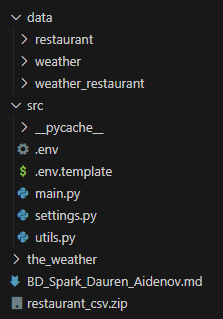
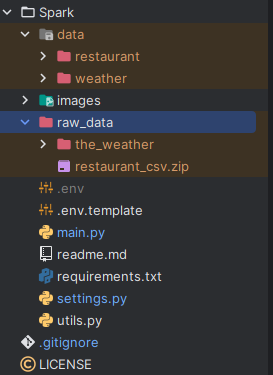
feat: implement tests

diff --git a/Spark/test_pyspark.py b/Spark/test_pyspark.py
@@ -1,0 +1,47 @@
+from pyspark.sql import SparkSession
+from pyspark.sql.types import StructType, StructField, DoubleType, StringType, IntegerType, LongType
+from pyspark.testing.utils import assertSchemaEqual
+
+from settings import SRC_RESTAURANT_PATH, SRC_WEATHER_PATH
+
+spark = (SparkSession.builder
+         .master('local[*]')
+         .appName('Spark HW')
+         .config('spark.driver.memory', '5g')
+         .config('spark.executor.memory', '5g')
+         .config("spark.sql.execution.arrow.pyspark.enabled", True)
+         .config('spark.sql.shuffle.partitions', 4)
+         .getOrCreate())
+
+restaurant_df = spark.read.csv(str(SRC_RESTAURANT_PATH), header=True, inferSchema=True)
+weather_df = spark.read.parquet(str(SRC_WEATHER_PATH), inferSchema=True)
+
+restaurant_schema = restaurant_df.schema
+restaurant_schema_check = StructType([
+    StructField('id', LongType(), True),
+    StructField('franchise_id', IntegerType(), True),
+    StructField('franchise_name', StringType(), True),
+    StructField('restaurant_franchise_id', IntegerType(), True),
+    StructField('country', StringType(), True),
+    StructField('city', StringType(), True),
+    StructField('lat', DoubleType(), True),
+    StructField('lng', DoubleType(), True)
+])
+
+assertSchemaEqual(restaurant_schema, restaurant_schema_check)
+
+weather_schema = weather_df.schema
+weather_schema_check = StructType([
+    StructField('lng', DoubleType(), True),
+    StructField('lat', DoubleType(), True),
+    StructField('avg_tmpr_f', DoubleType(), True),
+    StructField('avg_tmpr_c', DoubleType(), True),
+    StructField('wthr_date', StringType(), True),
+    StructField('year', IntegerType(), True),
+    StructField('month', IntegerType(), True),
+    StructField('day', IntegerType(), True)
+])
+
+assertSchemaEqual(weather_schema, weather_schema_check)
+
+print('Tests passed')

diff --git a/Spark/utils.py b/Spark/utils.py
@@ -7,7 +7,7 @@ from opencage.geocoder import OpenCageGeocode
 from pyspark.sql.functions import udf
 from pyspark.sql.types import ArrayType, DoubleType, StringType
 
-from settings import GEO_API_KEY
+from settings import GEO_API_KEY, RAW_WEATHER_PATH, SRC_WEATHER_PATH
 
 geocoder = OpenCageGeocode(GEO_API_KEY)
 
@@ -59,3 +59,7 @@ def get_geohash(lat: DoubleType(), lng: DoubleType()) -> StringType():
     :return: 4 character long geohash string
     """
     return geohash.encode(lat, lng, 4)
+
+
+if __name__ == '__main__':
+    unzip_files(RAW_WEATHER_PATH, SRC_WEATHER_PATH)

diff --git a/Spark/settings.py b/Spark/settings.py
@@ -6,12 +6,13 @@ import dotenv
 dotenv.load_dotenv()
 
 
-ROOT_DIR = Path(__file__).resolve().parent.parent
+ROOT_DIR = Path(__file__).resolve().parent
 GEO_API_KEY = os.getenv('GEO_API_KEY', None)
 if not GEO_API_KEY:
     raise ValueError('GEO_API_KEY is required')
 
 SRC_RESTAURANT_PATH = ROOT_DIR / 'data' / 'restaurant'
+RAW_WEATHER_PATH = ROOT_DIR / 'raw_data' / 'the_weather'
 SRC_WEATHER_PATH = ROOT_DIR / 'data' / 'weather'
 DST_PATH = ROOT_DIR / 'data' / 'weather_restaurant'
 

diff --git a/Spark/main.py b/Spark/main.py
@@ -97,6 +97,7 @@ def main() -> None:
              .master('local[*]')
              .appName('Spark HW')
              .config('spark.driver.memory', '5g')
+             .config('spark.executor.memory', '5g')
              .config("spark.sql.execution.arrow.pyspark.enabled", True)
              .config('spark.sql.shuffle.partitions', 4)
              .getOrCreate())

diff --git a/Spark/readme.md b/Spark/readme.md
@@ -28,7 +28,7 @@ python main.py
    - Download `restaurant` data and unzip it manually to `data/restaurant` directory
 2. Prepare weather data
    - Download `weather` data and put it to `the_weather` folder (as on image above)
-   - Run function utils.unzip_files() with the data
+   - Run `python utils.py`
 #### 2. Task implementation
 1. Implementing UDFs
    - `utils.fill_null_lat_lng()` function accepts city and country parameters and returns 
@@ -49,3 +49,6 @@ python main.py
    - `main.export_joined_df()` function left joins weather data with restaurant data
    - Partitions data by year, month, day and 
    exports the joined data to the `data/weather_restaurant` folder in PARQUET format
+#### 3. Tests run
+   - run `python test_pyspark.py`
+   - If 'Tests passed' is printed, then tests are passed. Otherwise, tests are not passed
